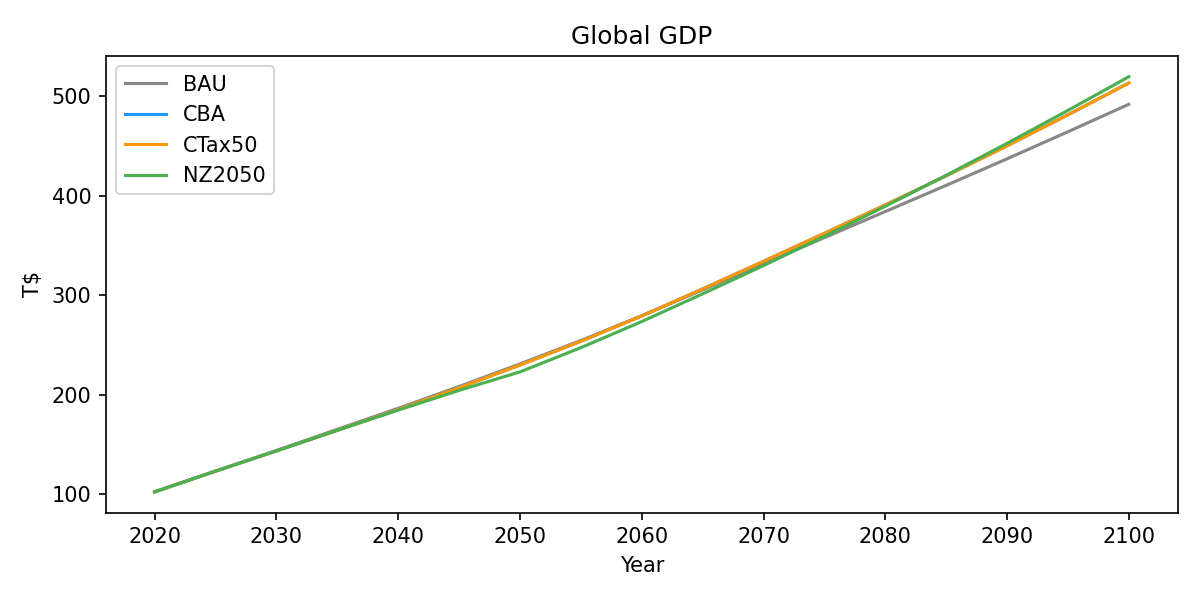
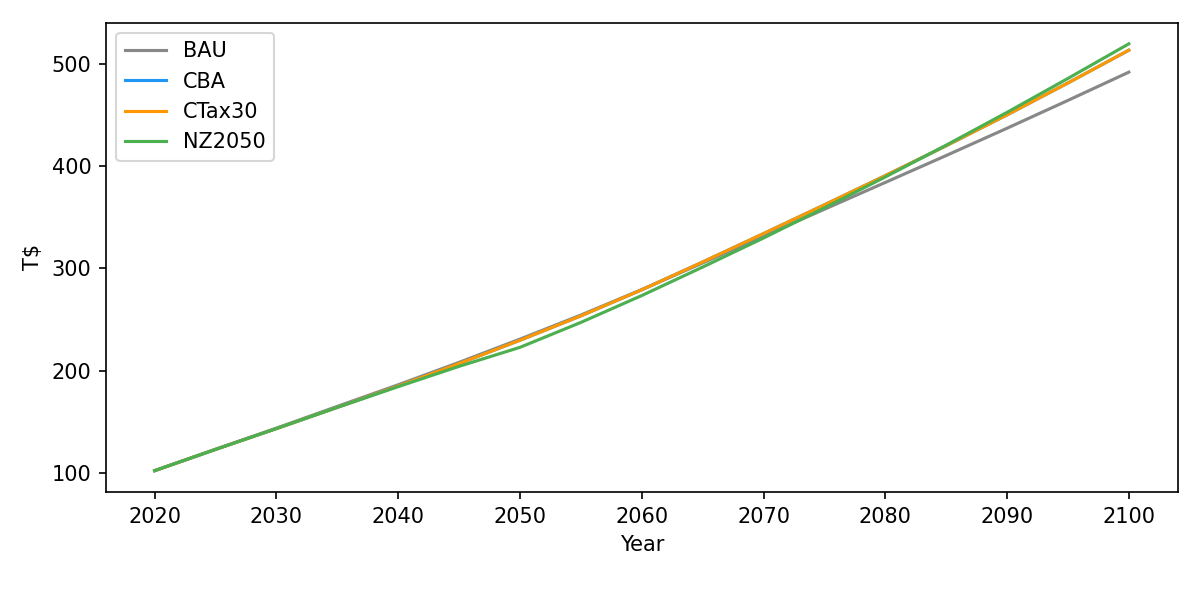
Fix re-audit A01-A03, validation with CTax30
- impact_deciles: BIMPACT fixed outside t_damages, quadratic term uses base_temp
- Nash: explicit region-column mapping for SAI/adaptation/E_STOR
- Storage loader: honor cfg.ccs_stor_cap_max override
- Validation: CTax30 separates from CBA, titles removed, notes added
- All 8 sanity checks pass

diff --git a/validation_batch.py b/validation_batch.py
@@ -29,7 +29,7 @@ from pydice32.solver import build_model, solve_model
 POLICIES = [
     ("BAU",     dict(policy="bau_impact", impact="kalkuhl")),
     ("CBA",     dict(policy="cba", impact="kalkuhl")),
-    ("CTax50",  dict(policy="ctax", impact="kalkuhl", ctax_initial=50, ctax_slope=0.03)),
+    ("CTax30",  dict(policy="ctax", impact="kalkuhl", ctax_initial=30, ctax_slope=0.03)),
     ("NZ2050",  dict(policy="global_netzero", impact="kalkuhl", nz_year=2050)),
 ]
 
@@ -38,7 +38,7 @@ T_RANGE = list(range(2, 19))
 TSTEP = 5
 YEARS = [2015 + (t - 1) * TSTEP for t in T_RANGE]
 
-COLORS = {"BAU": "#888888", "CBA": "#2196F3", "CTax50": "#FF9800", "NZ2050": "#4CAF50"}
+COLORS = {"BAU": "#888888", "CBA": "#2196F3", "CTax30": "#FF9800", "NZ2050": "#4CAF50"}
 
 
 def _sum(var, t_range, ghg=None):
@@ -128,31 +128,51 @@ def _vals(results, name, var):
 def generate_charts(results):
     print("\nGenerating charts...")
 
-    def _plot(fname, ylabel, title, var, **kw):
+    def _plot(fname, ylabel, var, notes=None, **kw):
         fig, ax = plt.subplots(figsize=(8, 4))
         for pname, _ in POLICIES:
             ax.plot(YEARS, _vals(results, pname, var),
                     color=COLORS[pname], label=pname, linewidth=1.5)
         ax.set_xlabel("Year")
         ax.set_ylabel(ylabel)
-        ax.set_title(title)
         ax.legend()
         if kw.get("hline") is not None:
             ax.axhline(kw["hline"], color="gray", ls="--", lw=0.5)
+        if notes:
+            fig.text(0.02, -0.02, f"Notes: {notes}", fontsize=7,
+                     color="gray", va="top", ha="left", style="italic")
         fig.tight_layout()
+        fig.subplots_adjust(bottom=0.18 if notes else 0.12)
         fig.savefig(os.path.join(OUT_DIR, fname), dpi=150)
         plt.close(fig)
 
-    _plot("01_temperature.png", "deg C", "Global Mean Temperature", "TATM")
-    _plot("02_co2_emissions.png", "GtCO2/yr", "Global CO2 Emissions", "E_CO2", hline=0)
-    _plot("03_gdp.png", "T$", "Global GDP", "Y")
-    _plot("04_miu_co2.png", "MIU", "CO2 Abatement Rate (avg)", "MIU_avg")
-    _plot("05_abatecost.png", "T$", "Abatement Cost", "ABATECOST")
-    _plot("06_carbon_price.png", "$/tCO2", "Carbon Price (MAC avg)", "MAC_co2_avg")
-    _plot("07_consumption.png", "$/person", "Consumption per Capita (avg)", "CPC_mean")
-    _plot("08_damages.png", "T$", "Climate Damages", "DAMAGES")
-    _plot("09_damfrac.png", "fraction", "Damage Fraction (avg)", "DAMFRAC_avg")
-    _plot("10_savings.png", "rate", "Savings Rate (avg)", "S_avg")
+    # Extract key numbers for notes
+    bau_t2100 = results["BAU"]["TATM"].get(18, 0)
+    cba_t2100 = results["CBA"]["TATM"].get(18, 0)
+    nz_t2100 = results["NZ2050"]["TATM"].get(18, 0)
+    bau_dmg = results["BAU"]["DAMAGES"].get(18, 0)
+    cba_gdp = results["CBA"]["Y"].get(18, 0)
+    bau_gdp = results["BAU"]["Y"].get(18, 0)
+
+    _plot("01_temperature.png", "deg C", "TATM",
+          notes=f"BAU reaches {bau_t2100:.1f}C by 2100. CBA optimal: {cba_t2100:.1f}C. NZ2050: {nz_t2100:.1f}C.")
+    _plot("02_co2_emissions.png", "GtCO2/yr", "E_CO2", hline=0,
+          notes="NZ2050 reaches net-zero at 2050. CBA converges to near-zero by 2100.")
+    _plot("03_gdp.png", "T$", "Y",
+          notes=f"BAU GDP ({bau_gdp:.0f}T$) falls below CBA ({cba_gdp:.0f}T$) after ~2060 due to climate damages.")
+    _plot("04_miu_co2.png", "MIU", "MIU_avg",
+          notes="MIU = fraction of CO2 abated. BAU = 0 (no policy). NZ2050 ramps fastest.")
+    _plot("05_abatecost.png", "T$", "ABATECOST",
+          notes="Higher abatement cost reflects stronger mitigation effort.")
+    _plot("06_carbon_price.png", "$/tCO2", "MAC_co2_avg",
+          notes="MAC = marginal abatement cost = implicit carbon price.")
+    _plot("07_consumption.png", "$/person", "CPC_mean",
+          notes="Per-capita consumption. Policy scenarios overtake BAU as damages grow.")
+    _plot("08_damages.png", "T$", "DAMAGES",
+          notes=f"BAU damages reach {bau_dmg:.0f}T$ by 2100. Mitigation sharply reduces damages.")
+    _plot("09_damfrac.png", "fraction", "DAMFRAC_avg",
+          notes="Fraction of GDP lost to climate damages. Kalkuhl growth-rate specification.")
+    _plot("10_savings.png", "rate", "S_avg")
 
     # GDP loss vs BAU
     fig, ax = plt.subplots(figsize=(8, 4))
@@ -166,9 +186,12 @@ def generate_charts(results):
     ax.axhline(0, color="gray", ls="--", lw=0.5)
     ax.set_xlabel("Year")
     ax.set_ylabel("GDP change vs BAU (%)")
-    ax.set_title("GDP Change Relative to BAU (positive = net gain from policy)")
     ax.legend()
+    fig.text(0.02, -0.02,
+             "Notes: Positive = net GDP gain from policy (damage reduction > abatement cost).",
+             fontsize=7, color="gray", va="top", ha="left", style="italic")
     fig.tight_layout()
+    fig.subplots_adjust(bottom=0.18)
     fig.savefig(os.path.join(OUT_DIR, "11_gdp_loss_vs_bau.png"), dpi=150)
     plt.close(fig)
 
@@ -192,7 +215,7 @@ def sanity_checks(results):
 
     bau = results["BAU"]
     cba = results["CBA"]
-    ctax = results["CTax50"]
+    ctax = results["CTax30"]
     nz = results["NZ2050"]
 
     # BAU damages must be > 0
@@ -226,7 +249,7 @@ def sanity_checks(results):
 
     # Print key numbers
     print(f"\n  Key values at 2100:")
-    for p in ["BAU", "CBA", "CTax50", "NZ2050"]:
+    for p in ["BAU", "CBA", "CTax30", "NZ2050"]:
         r = results[p]
         print(f"    {p:8s}: TATM={r['TATM'][18]:.2f}C  "
               f"GDP={r['Y'][18]:.0f}T$  "
